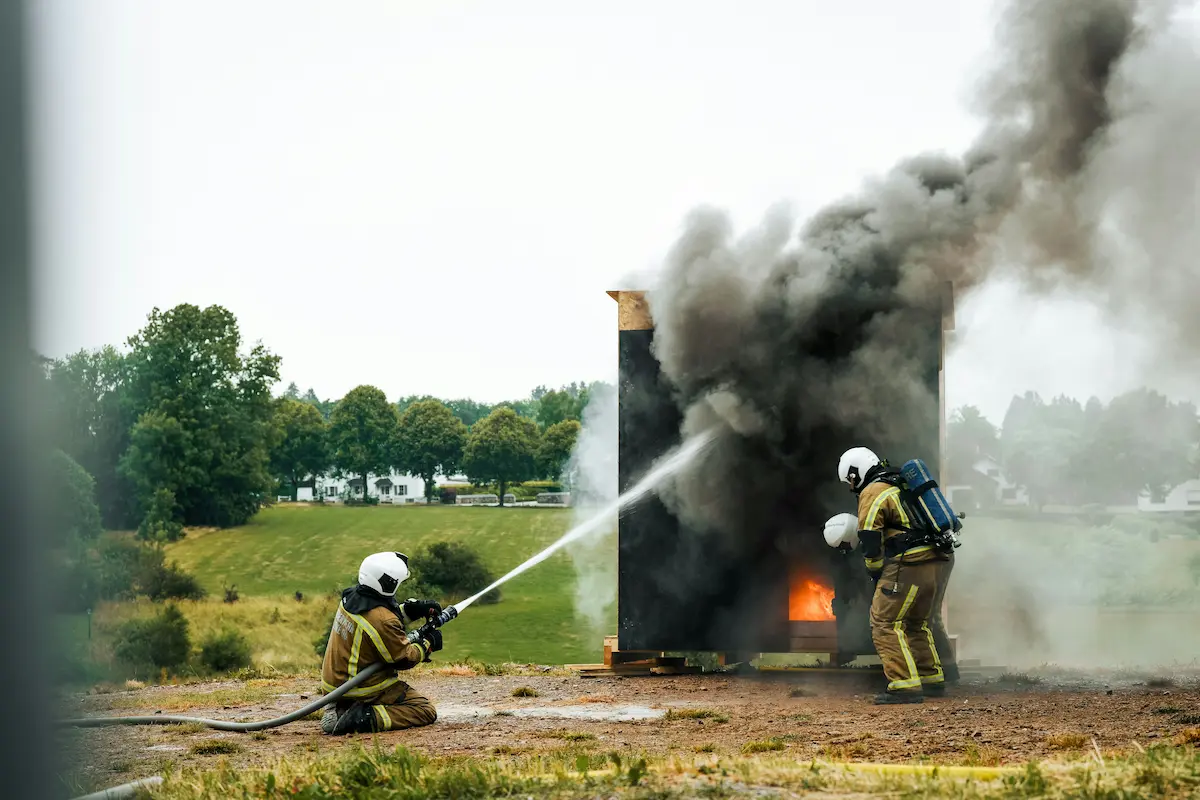
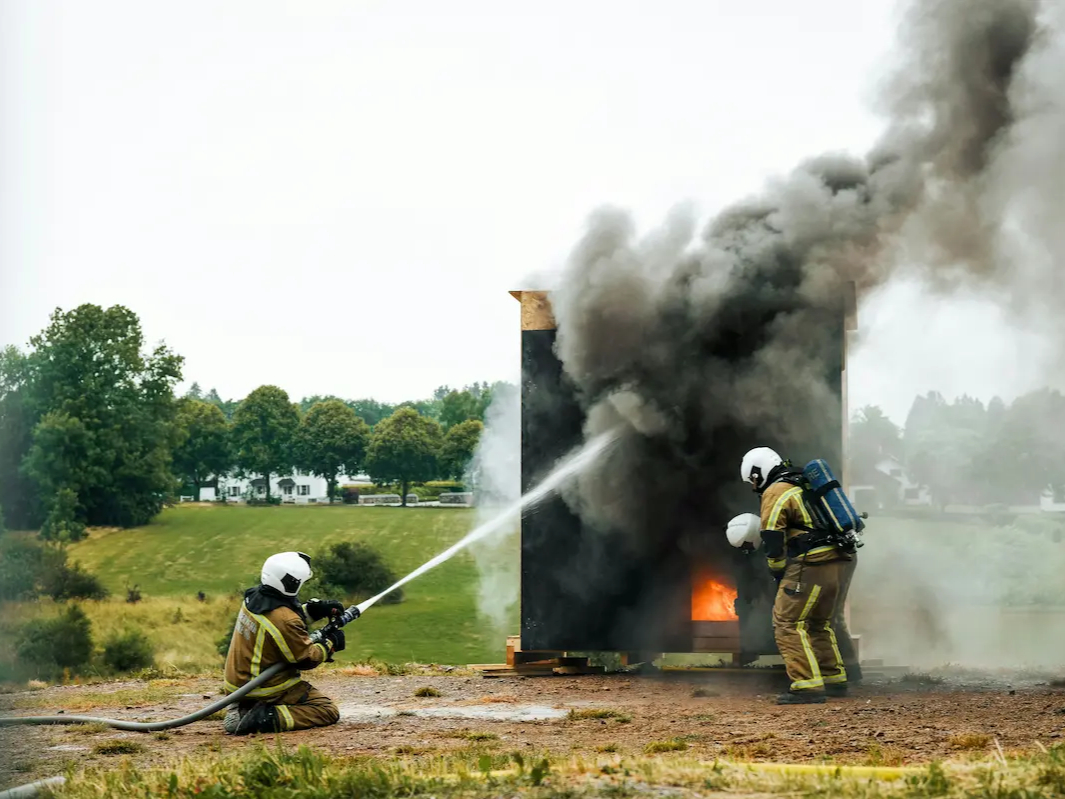
add hero section with background image for mobile

diff --git a/index.html b/index.html
@@ -42,7 +42,17 @@
         </ul>
       </nav>
     </header>
-    <main>Main</main>
+    <main>
+      <section id="hero">
+        <div class="image-container">
+          <img
+            src="assets/hero.webp"
+            alt="Hero Image with three firemen puting out a fire in a small shed"
+            class="hero-image"
+          />
+        </div>
+      </section>
+    </main>
     <footer>Footer</footer>
   </body>
 </html>

diff --git a/styles.css b/styles.css
@@ -86,6 +86,15 @@ nav a:focus-visible {
   color: var(--middle-green);
 }
 
+.image-container {
+  height: 70vh;
+}
+
+.hero-image {
+  width: 100%;
+  height: 100%;
+}
+
 /* MAIN ----------------------> */
 
 main {
@@ -100,6 +109,7 @@ footer {
 /* Media Min width 768px */
 
 @media screen and (min-width: 768px) {
+  /* Header */
   header {
     flex-direction: row;
     justify-content: space-between;
